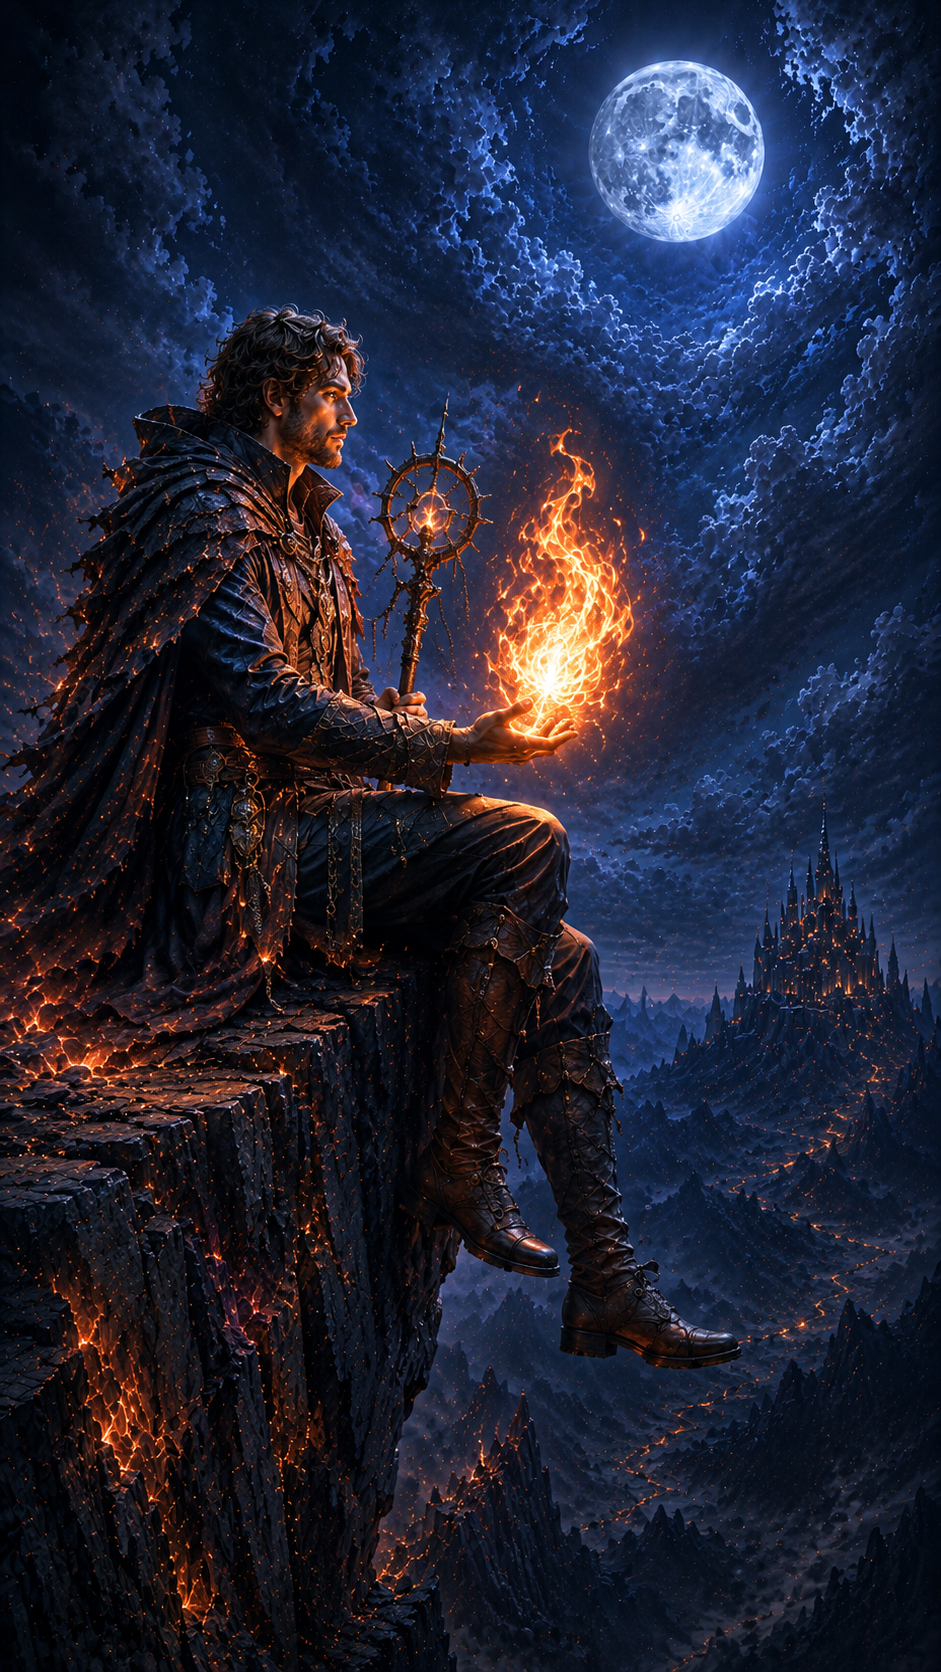
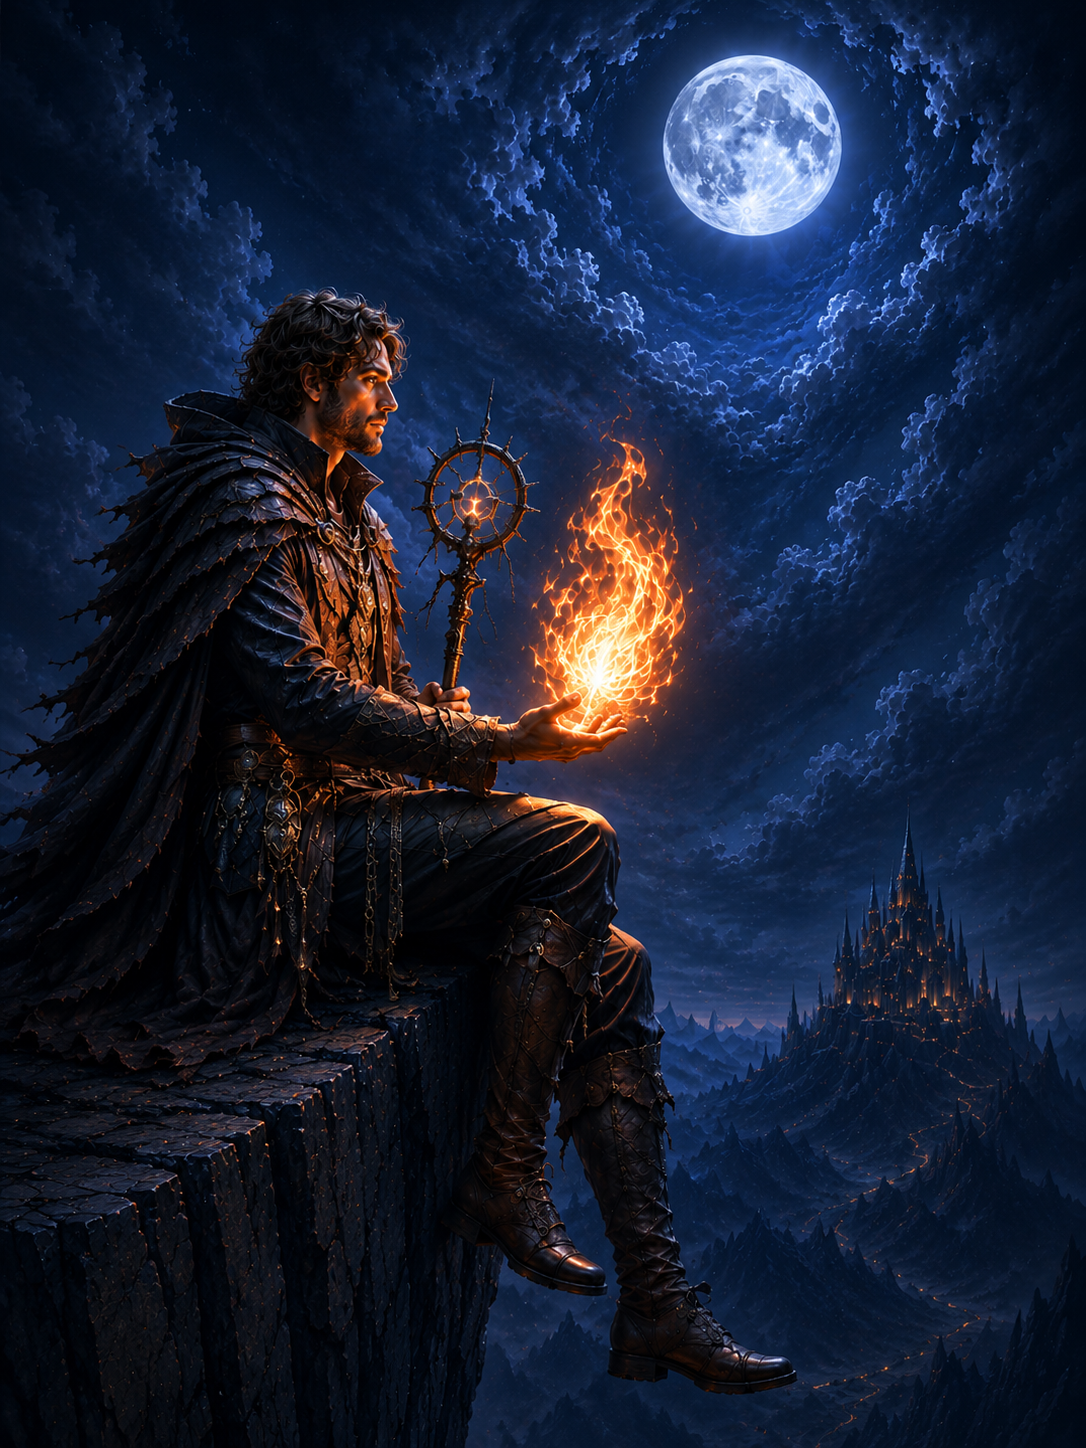
updates

diff --git a/index.html b/index.html
@@ -162,11 +162,14 @@ body.placing .cell.zone{border-style:dashed;border-color:var(--verdigris)}
 .modal-sub{color:var(--dim);font-size:13px;text-align:center;margin:8px 0 20px}
 .pair-row{display:grid;grid-template-columns:1fr 1fr;gap:14px}
 .pair-row .hero{margin:0}
-.modal-wide{max-width:900px}
-.offer-grid{display:grid;grid-template-columns:repeat(auto-fit,minmax(150px,1fr));gap:12px}
+.modal-wide{max-width:1180px}
+.offer-grid{display:grid;grid-template-columns:repeat(auto-fit,minmax(200px,1fr));gap:16px}
 .offer-grid .hero{margin:0}
 .offer-grid .hero.pickable{cursor:pointer}
 .offer-grid .hero.pickable:hover{transform:translateY(-2px);box-shadow:0 8px 20px rgba(0,0,0,.35)}
+.draft-card{padding:18px 16px;min-height:150px}
+.dc-name{font-size:23px;font-weight:600;line-height:1.15;margin-bottom:12px}
+.dc-desc{font-size:14px;line-height:1.6;color:var(--dim)}
 .modal-wait{text-align:center;color:var(--dim);font-family:var(--mono);font-size:11px;
   letter-spacing:.16em;text-transform:uppercase;margin-top:18px}
 .modal-taken{display:grid;grid-template-columns:1fr 1fr;gap:12px;margin-top:22px;
@@ -754,12 +757,9 @@ function render(){
 }
 
 function heroCard(hero, clickable, onclick){
-  return `<div class="hero ${clickable?'pickable':''}" ${clickable?`onclick="${onclick}"`:''}>
-    <div class="top"><span class="cn">${hero.name}</span><span class="en">${hero.name_en}</span></div>
-    <div class="stats">HP ${hero.hp} · ATK ${hero.atk} · MOVE ${hero.move} · AP ${hero.max_ap}
-      · ${hero.attack.mode==='cell_locked'?`${hero.attack.cells} cells @ ${hero.attack.range}`:'any one enemy'}
-      ${hero.shots>1?` · ${hero.shots} shots`:''}</div>
-    ${hero.traits.map(t=>`<div class="trait"><b>${t.name}${t.ap_cost?` (${t.ap_cost} AP)`:''}</b> — ${t.text}</div>`).join('')}
+  return `<div class="hero draft-card ${clickable?'pickable':''}" ${clickable?`onclick="${onclick}"`:''}>
+    <div class="dc-name">${hero.name}</div>
+    <div class="dc-desc">${hero.blurb||''}</div>
   </div>`;
 }
 

diff --git a/heroes.py b/heroes.py
@@ -671,6 +671,17 @@ ROSTER = [
         attack={"mode": CELL, "cells": 2, "range": 2},
         blurb="A wall of a hero — 32 HP and a solid swing.",
     ),
+    HeroDef(
+        key="wind_rider",
+        name="御风使",
+        name_en="Wind Rider",
+        max_hp=20,
+        atk=4,
+        move=2,
+        max_ap=0,
+        attack={"mode": CELL, "cells": 3, "range": 2},
+        blurb="Covers ground fast — moves 2 cells a turn.",
+    ),
 ]
 
 BY_KEY = {h.key: h for h in ROSTER}
@@ -692,7 +703,7 @@ BY_KEY[DUMMY.key] = DUMMY
 
 # The champions --test puts under your control (the current batch). Update this
 # whenever you add heroes; --test fills the rest of your side with dummies.
-TEST_HEROES = ["gatekeeper"]
+TEST_HEROES = ["wind_rider"]
 
 
 def describe(hero):
